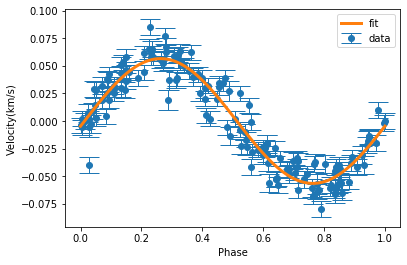
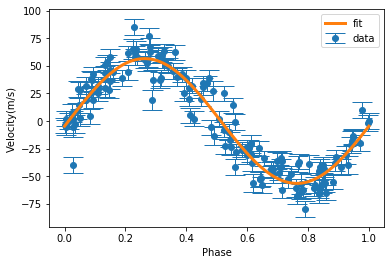
Add files via upload

diff --git a/第１１回report課題.py b/第１１回report課題.py
@@ -28,6 +28,8 @@ data = pd.read_csv('51peg.dat', header=None,delim_whitespace=True)
 t = list(data[0])
 v = list(data[1])
 error = list(data[2])
+for i in range(len(error)):
+    error[i] = error[i] * 1000
 vg = 0
 
 for vs in v:
@@ -38,7 +40,7 @@ vg = vg/(len(v))
 print("Vg = ", vg)
 
 for i in range(len(v)):
-    v[i] = v[i]-vg
+    v[i] = (v[i]-vg)*1000
 
 frequency, velocity = LombScargle(t, v).autopower(nyquist_factor=20)
 plt.plot(frequency,velocity)
@@ -53,7 +55,7 @@ print("Time_scale = ", estimated_timescale)
 phase = (t/estimated_timescale)%1
 plt.errorbar(phase,v,yerr=error,marker="o",capthick=1, capsize=10,lw = 1, linestyle="None", label="data",zorder=1)
 plt.xlabel("Phase")
-plt.ylabel("Velocity(km/s)")
+plt.ylabel("Velocity(m/s)")
 #plt.show()
 
 def func(t,a,b):
